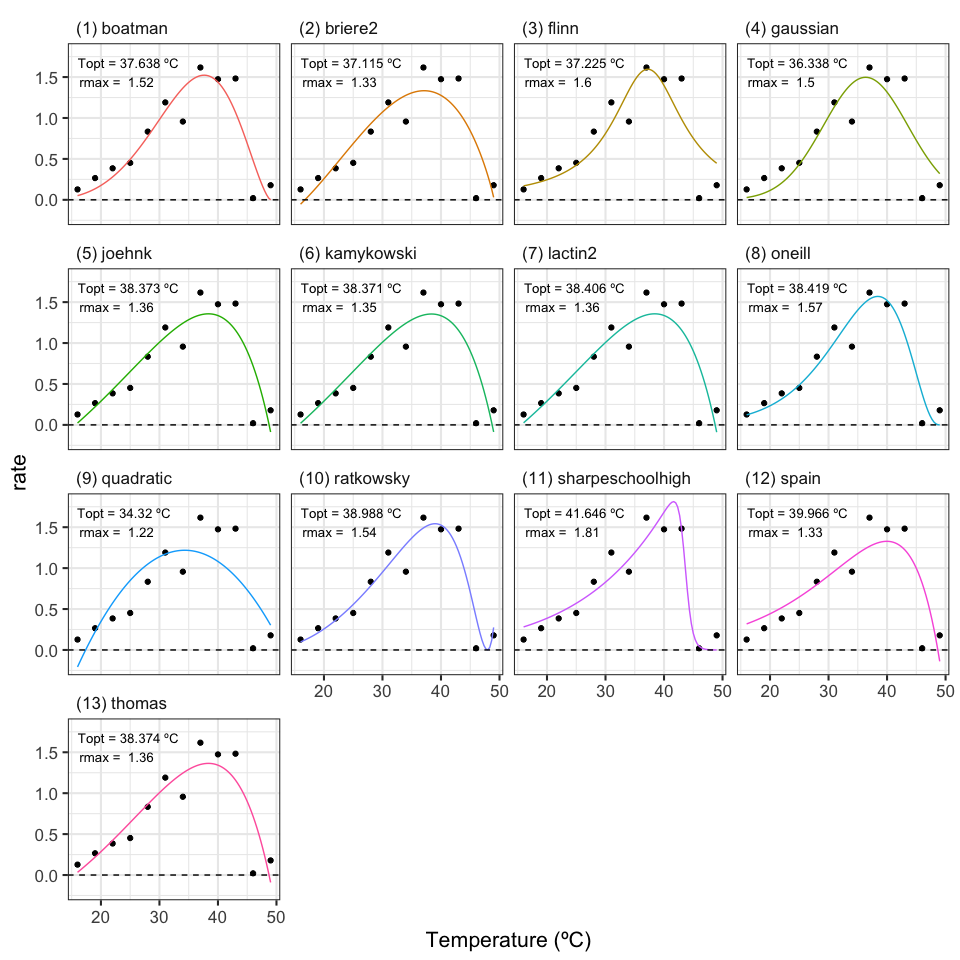
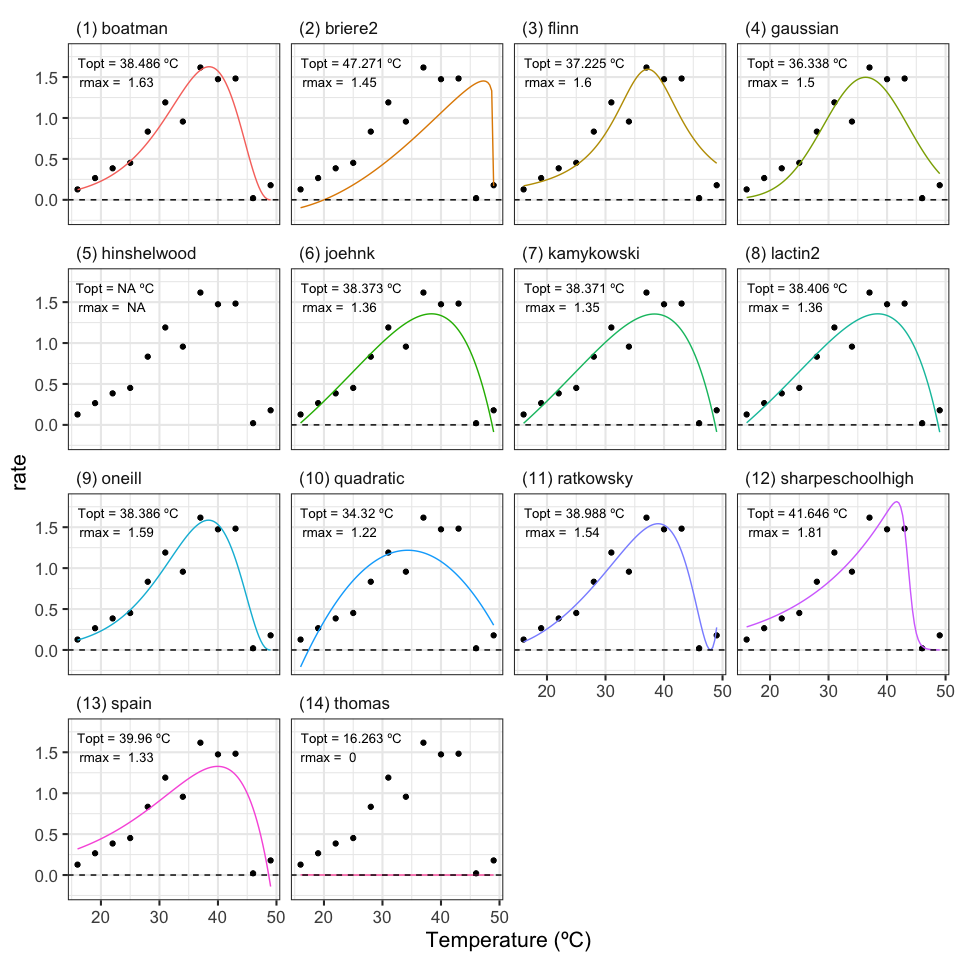
Define hinshelwood_1947 (no idea about the start params for this one)

diff --git a/README.md b/README.md
@@ -158,6 +158,12 @@ d_models <- group_by(d_1, curve_id, growth.temp, process, flux) %>%
                                            iter = 500,
                                            start_lower = c(a = 0, b = -2, c = -1),
                                            start_upper = c(a = 30, b = 2, c = 1),
+                                           supp_errors = 'Y')),
+            hinshelwood = map(data, ~nls_multstart(rate ~ hinshelwood_1947(temp = temp, a, e, c, eh),
+                                           data = .x,
+                                           iter = 500,
+                                           start_lower = c(a = 1e9, e = 5, c = 1e9, eh = 0),
+                                           start_upper = c(a = 1e11, e = 20, c = 1e11, eh = 20),
                                            supp_errors = 'Y')))
 ```
 
@@ -206,8 +212,9 @@ which model is most supported.
 ``` r
 
 # calculate AICc score and weight models
-d_stack <- mutate(d_stack, aic = map_dbl(output, MuMIn::AICc),
-                  weight = MuMIn::Weights(aic))
+d_stack <- mutate(d_stack, aic = map_dbl(output, possibly(MuMIn::AICc, NA))) %>%
+  filter(., !is.na(aic)) %>%
+  mutate(., weight = MuMIn::Weights(aic))
 
 # plot weights
 ggplot(d_stack, aes(forcats::fct_reorder(model, weight, .desc = TRUE), weight, fill = model)) +
